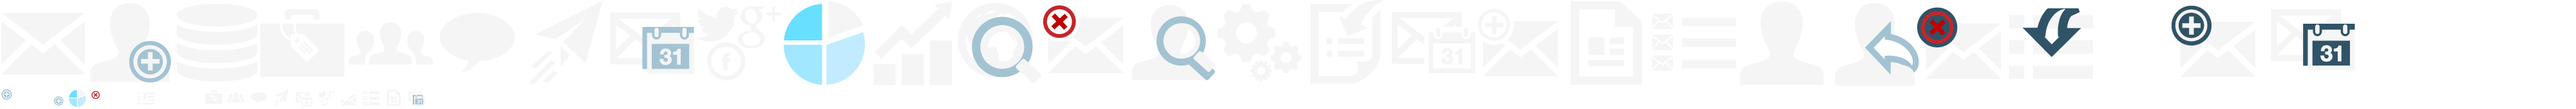
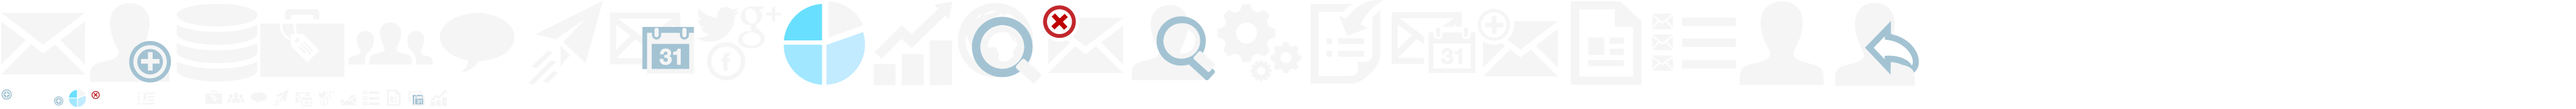
boton navegacion estadisticas mail

Changed region(s): [[0.7188, 0.0588, 0.8125, 0.5], [0.8438, 0.0588, 0.9375, 0.6176]]

diff --git a/public/b3/css/sm-email-theme.css b/public/b3/css/sm-email-theme.css
@@ -1,1 +1,1 @@
-@font-face{font-family:'journalregular';src:url('../fonts/journal-webfont-webfont.eot');src:url('../fonts/journal-webfont-webfont.eot?#iefix') format('embedded-opentype'),url('../fonts/journal-webfont-webfont.woff') format('woff'),url('../fonts/journal-webfont-webfont.ttf') format('truetype');font-weight:normal;font-style:normal}body{background-color:#f5f5f5}.space{margin:40px 0}.wrap{background-color:#e9eff2;padding:12px 0;margin-bottom:20px}.wrapper{padding:25px;margin-bottom:20px}h4.sectiontitle{background-color:#e9eff2;padding:10px;color:#20526e;margin-bottom:30px}.box-dashboard-summary{border-radius:6px;margin:0 0 30px 0;padding:20px 0;text-align:center;color:#f5f5f5}[class*="sm-icons-summary-"]{background:transparent url('../images/sm-icons.png') no-repeat 0 0;height:46px;width:46px}.sm-icons-summary-opens{background-position:0 0}.sm-icons-summary-clicks{background-position:-47px 0}.sm-icons-summary-unsubscribed{background-position:-94px 0}.sm-icons-summary-bounced{background-position:-141px 0}.sm-icons-summary-fb{background-position:-188px 0}.sm-icons-summary-tw{background-position:-235px 0}[class*="sm-icons-stats-"]{background:transparent url('../images/sm-icons.png') no-repeat 0 0;height:70px;width:70px}.sm-icons-stats-sends{background-position:0 -58px}.sm-icons-stats-opens{background-position:-71px -58px}.sm-icons-stats-clics{background-position:-142px -58px}.sm-icons-stats-unsubs{background-position:-213px -58px}.sm-icons-stats-bounced{background-position:-284px -58px}.sm-icons-stats-spam{background-position:-355px -58px}.sm-icons-stats-facebook{background-position:-426px -58px}.sm-icons-stats-tweet{background-position:-497px -58px}.sm-icons-stats-gplus{background-position:-568px -58px}.sm-icons-stats-linkedin{background-position:-639px -58px}.sends{color:#f5f5f5;margin-top:20px;text-align:center}.opens{color:#97c86b;margin-top:20px;text-align:center}.clics{color:#6e97ac;margin-top:20px;text-align:center}.bounced{color:#ef8807;margin-top:20px;text-align:center}.unsubs{color:#a1dcfb;margin-top:10px;text-align:center}.color-desusc{color:#a1dcfb}.spam{color:#bd1b06;margin-top:10px;text-align:center}.summary-opens{background:#97c86b}.number-stats-dashboard-summary{color:#f5f5f5;padding:20px 8px;text-align:center}@media screen and (min-width:1200px){.number-stats-dashboard-summary{font-size:48px}}@media screen and (max-width:1200px){.number-stats-dashboard-summary{font-size:36px}}@media screen and (max-width:1024px){.number-stats-dashboard-summary{font-size:36px}}@media screen and (max-width:800px){.number-stats-dashboard-summary{font-size:32px}}.summary-unsubscribed{background-color:#a1dcfb}.summary-clicks{background-color:#6e97ac}.summary-bounced{background-color:#ef8807}.summary-spam{background-color:#d9534f}.summary-box-social{background-color:#adadad;padding-bottom:0}.border-top{border-top:1px solid #f5f5f5}.social-sec-box{padding-bottom:5px;padding-top:5px;border-left:1px solid #f5f5f5}.social-sec-box:first-child{border-left:0}.summary-fb p{padding-right:10px;text-align:right;font-size:20px}.table-normal thead th{height:100px;vertical-align:bottom;text-align:center;font-weight:normal}.table-normal thead th.opens{background:transparent url('../images/icon-email-open-color.png') no-repeat center 12px;color:#97c86b}.table-normal thead th.clics{background:transparent url('../images/icon-clics-color.png') no-repeat center 12px;color:#6e97ac}.table-normal thead th.desusc{background:transparent url('../images/icon-desusc-color.png') no-repeat center 12px;color:#a1dcfb}.table-normal thead th.bounced{background:transparent url('../images/icon-bounced-color.png') no-repeat center 12px;color:#ef8807}.table-normal tbody td{text-align:center}.table-normal tbody td.left{text-align:left}.jqstooltip{-webkit-box-sizing:content-box;-moz-box-sizing:content-box;box-sizing:content-box}#sidebar-background-object{position:fixed;height:100%;top:0;background-color:#20526e}.sidebar{background-color:#20526e;height:100%;float:left;margin:0;padding:0;z-index:2}#main-navigation li{border-left:6px solid #f5f5f5;margin-top:0}#main-navigation li a{color:#e6ba7b;font-size:15px;padding:15px}#main-navigation li.active{background-color:#f5f5f5;border-left:6px solid #20526e;border-radius:0}#main-navigation li.active a{background-color:#f5f5f5;border-radius:0;color:#20526e}#main-navigation li:hover{background-color:#e9eff2;border-left:6px solid #e9eff2;border-radius:0}#main-navigation li:hover a{background-color:#e9eff2;border-radius:0;color:#20526e}.navbar-default{background-color:#20526e;border-radius:0;border-color:#20526e;margin-bottom:0}#top-nav li a{color:#f5f5f5}#top-nav li:hover a{color:#777}.sm-btn-blue{background-color:#a4c3d4}.sm-btn-blue:hover{background-color:#315467}.sm-btn-blue.active{background-color:#adadad}.to-do{text-align:center;display:block;border-radius:3px;padding:32px;background-color:#a4c3d4;width:190px;height:190px;margin-bottom:10px}.small-btn{width:42px;height:42px;margin:0;padding-top:3px;border-radius:2px}.small-btn a{display:inline-block}.sm-button-large-base,.sm-button-large-email,.sm-button-large-add-contacts,.sm-button-large-database,.sm-button-large-accounts,.sm-button-large-users,.sm-button-large-msj,.sm-button-large-send-process,.sm-button-large-program-envios,.sm-button-large-socialnet,.sm-button-large-contact-list,.sm-button-large-segment,.sm-button-large-bloq-list,.sm-button-large-contact-search,.sm-button-large-settings,.sm-button-large-import-list,.sm-button-large-admin-prog,.sm-button-large-email-new,.sm-button-large-plantillas,.sm-button-large-email-list{background:transparent url('../images/icon-buttons.png') no-repeat center center;height:134px;width:134px;display:inline-block}.sm-button-large-email{background-position:0 0}.sm-button-large-add-contacts{background-position:-135px 0}.sm-button-large-database{background-position:-270px 0}.sm-button-large-accounts{background-position:-405px 0}.sm-button-large-users{background-position:-540px 0}.sm-button-large-msj{background-position:-675px 0}.sm-button-large-send-process{background-position:-810px 0}.sm-button-large-program-envios{background-position:-2160px 0}.sm-button-large-socialnet{background-position:-1080px 0}.sm-button-large-contact-list{background-position:-2700px 0}.sm-button-large-segment{background-position:-1215px 0}.sm-button-large-bloq-list{background-position:-1620px 0}.sm-button-large-contact-search{background-position:-1755px 0}.sm-button-large-settings{background-position:-1890px 0}.sm-button-large-import-list{background-position:-2025px 0}.sm-button-large-admin-prog{background-position:-2160px 0}.sm-button-large-email-new{background-position:-2295px 0}.sm-button-large-plantillas{background-position:-2430px 0}.sm-button-large-email-list{background-position:-2565px 0}.btn-actn{color:#123377;font-size:18px;text-align:center}.w-190{width:190px}.center{text-align:center}.mtop-5{margin-top:5px}.sm-button-small-base,.sm-button-small-email,.sm-button-small-contact-list,.sm-button-small-database,.sm-button-small-bloq-list,.sm-button-small-settings,.sm-button-small-import-contacts,.sm-button-small-import-list,.sm-button-small-segment,.sm-button-small-contact-search,.sm-button-small-account,.sm-button-small-user,.sm-button-small-msj,.sm-button-small-send,.sm-button-small-scheduledmail,.sm-button-small-social,.sm-button-small-email-new,.sm-button-small-email-list,.sm-button-small-template,.sm-button-small-schedule{background:transparent url('../images/icon-buttons.png') no-repeat center center;height:34px;width:34px;display:inline-block}.sm-button-small-email{background-position:0 -135px}.sm-button-small-contact-list{background-position:-35px -135px}.sm-button-small-database{background-position:-280px -135px}.sm-button-small-bloq-list{background-position:-140px -135px}.sm-button-small-settings{background-position:-175px -135px}.sm-button-small-import-contacts{background-position:-210px -129}.sm-button-small-import-list{background-position:-210px -135px}.sm-button-small-segment{background-position:-105px -135px}.sm-button-small-contact-search{background-position:-70px -135px}.sm-button-small-account{background-position:-315px -135px}.sm-button-small-user{background-position:-350px -135px}.sm-button-small-msj{background-position:-385px -135px}.sm-button-small-send{background-position:-420px -135px}.sm-button-small-scheduledmail{background-position:-455px -135px}.sm-button-small-social{background-position:-490px -135px}.sm-button-small-email-new{background-position:-525px -135px}.sm-button-small-email-list{background-position:-560px -135px}.sm-button-small-template{background-position:-595px -135px}.sm-button-small-schedule{background-position:-455px -135px}h4.numbers-contacts{margin-bottom:0}.numbers-contacts li{margin-bottom:0;text-align:center;padding:0 15px}.big-number{font-size:30px}.blue{color:#6e97ac}.sad-blue{color:#b3e3e4}.gray{color:#9d9d9d}.green{color:#97c86b}.orange{color:#ef8807}.red{color:#bd1b06}.btn{margin-bottom:10px}.input-group-btn .btn,#modal-simple .btn{margin-bottom:0}.input-group-sm>.input-group-addon{width:13px}.btn-default{background-color:#ccc;color:#428bca;border:none}.btn-default:hover{text-decoration:underline;color:#666;transition:background-color .5s ease;text-decoration:none;background-color:#b3b3b3}.extra-padding{padding-right:25px;padding-left:25px}.btn-danger{border:none}.btn-delete:hover{background-color:#ac1905;color:#f5f5f5;text-decoration:none}.btn-guardar{background-color:#5cb85c;color:#f5f5f5;text-decoration:none}.btn-guardar:hover{transition:background-color .5s ease;background-color:#5eab07;text-decoration:none}.btn-add:hover{transition:background-color .5s ease;background-color:#58abca;color:#eee;text-decoration:none}.no-bg{background-color:transparent}.no-bg:hover{background-color:transparent;border:none;box-shadow:none}.btn-group.open .dropdown-toggle{box-shadow:none}table.table-contacts tbody tr td{vertical-align:middle}table.mail-list tbody tr td{padding:25px}.inactive{background-color:#808080;width:15px}.unsubscribed{background-color:#333;width:15px}.frame-bg-pd{background-color:#eee;padding-top:9px;padding-bottom:0;margin-bottom:15px}.alert-success span{font-size:40px}.form-actions{text-align:center;padding:25px 0}.border{border:1px solid #ddd;border-radius:5px}span.required{color:#d9534f;padding-right:4px}.estado-contact .inactive{background-color:#b3e3e4;width:15px}.estado-contact .unsubscribed{background-color:#9d9d9d;width:15px}.bs-callout-primary{display:block;margin:20px 0;padding:15px 30px 15px 15px;border-left:5px solid #428bca;background-color:#f5f9fc}.bs-callout-primary h1,.bs-callout-primary h2,.bs-callout-primary h3,.bs-callout-primary h4,.bs-callout-primary h5,.bs-callout-primary h6{margin-top:0;color:#428bca}.bs-callout-primary p:last-child{margin-bottom:0}.bs-callout-primary code,.bs-callout-primary .highlight{background-color:#fff}.bs-callout-danger{display:block;margin:20px 0;padding:15px 30px 15px 15px;border-left:5px solid #d9534f;background-color:#f9e2e2}.bs-callout-danger h1,.bs-callout-danger h2,.bs-callout-danger h3,.bs-callout-danger h4,.bs-callout-danger h5,.bs-callout-danger h6{margin-top:0;color:#d9534f}.bs-callout-danger p:last-child{margin-bottom:0}.bs-callout-danger code,.bs-callout-danger .highlight{background-color:#fff}.bs-callout-warning{display:block;margin:20px 0;padding:15px 30px 15px 15px;border-left:5px solid #f0ad4e;background-color:#fceedb}.bs-callout-warning h1,.bs-callout-warning h2,.bs-callout-warning h3,.bs-callout-warning h4,.bs-callout-warning h5,.bs-callout-warning h6{margin-top:0;color:#f0ad4e}.bs-callout-warning p:last-child{margin-bottom:0}.bs-callout-warning code,.bs-callout-warning .highlight{background-color:#fff}.bs-callout-info{display:block;margin:20px 0;padding:15px 30px 15px 15px;border-left:5px solid #5bc0de;background-color:#f0f9fc}.bs-callout-info h1,.bs-callout-info h2,.bs-callout-info h3,.bs-callout-info h4,.bs-callout-info h5,.bs-callout-info h6{margin-top:0;color:#5bc0de}.bs-callout-info p:last-child{margin-bottom:0}.bs-callout-info code,.bs-callout-info .highlight{background-color:#fff}.bs-callout-success{display:block;margin:20px 0;padding:15px 30px 15px 15px;border-left:5px solid #5cb85c;background-color:#d8eed8}.bs-callout-success h1,.bs-callout-success h2,.bs-callout-success h3,.bs-callout-success h4,.bs-callout-success h5,.bs-callout-success h6{margin-top:0;color:#5cb85c}.bs-callout-success p:last-child{margin-bottom:0}.bs-callout-success code,.bs-callout-success .highlight{background-color:#fff}.table-striped tbody tr.spreadout>td{background-color:#f0eedf}.table-striped tbody tr.spreadout:nth-child(odd)>td{background-color:#f0eedf}.report h4{color:#20526e}.mini-icon{color:#20526e;font-size:20px;padding-top:6px}table.hight-line>tbody>tr>th{line-height:2.2}table.middle>tbody>tr>th>td{vertical-align:middle}.right{text-align:right}.padding-top{padding-top:15px}.ptop-7{padding-top:7px}.ptop-3{padding-top:3px}#colorchart td{width:25px !important;height:25px !important;cursor:pointer;border:2px #d3d3d3 solid}#colorchart{border-collapse:separate;border:4px #808080 solid}#color.text-for-db-color{display:none !important}#colorchart td:hover{opacity:.5}.color-selected{border:2px #00f solid !important}.list-inline>li.card{padding:5px 20px;border-radius:5px;color:#f5f5f5;text-align:center;margin-bottom:5px}.list-inline>li.card span{font-size:30px}.card{margin:0 10px}.cont{background-color:#97c86b}.list{background-color:#ff90a8}.seg{background-color:#6e97ac}.bs-ember-href li a{cursor:pointer}.pointer{cursor:pointer}.border{border:1px solid #c3c3c3}.sm-striped-bg{width:12px;background-size:30px 30px;background-image:linear-gradient(45deg, rgba(0,0,0,0.1) 25%, transparent 25%, transparent 50%, rgba(0,0,0,0.1) 50%, rgba(0,0,0,0.1) 75%, transparent 75%, transparent)}.sm-striped-bg-sm{width:4px;background-size:30px 30px;background-image:linear-gradient(45deg, rgba(0,0,0,0.1) 25%, transparent 25%, transparent 50%, rgba(0,0,0,0.1) 50%, rgba(0,0,0,0.1) 75%, transparent 75%, transparent)}.nav-tabs>li.active>a{background-color:#f5f5f5}.nav-tabs>li.active>a,.nav-tabs>li.active>a:hover{background-color:#f5f5f5}.border-left{border-left:1px solid #c9c9c9}.preview-mail{margin:0 15px 0 0}.item-thumb{margin-bottom:20px}.paneltitle{color:#f0ad4e;border-bottom:2px solid #f0ad4e}.mail-wrapper{background-color:#fff;border:15px solid transparent;padding:25px}.border-mail{-webkit-border-image:url('../images/bg-border-mail.png') 20 20 round;-o-border-image:url('../images/bg-border-mail.png') 20 20 round;border-image:url('../images/bg-border-mail.png') 20 20 round}.thumn-hight{height:414px}.bg-wrap-calendar{background:transparent url("../images/bg-calendar-1.png") no-repeat 0 0;box-shadow:19px 19px 22px -12px #adadad;margin-top:0;width:175px;height:186px}.date{text-align:center;padding-top:65px}.day-send{color:#20526e;font-size:60px;margin:0}.month-send{font-size:15px;margin:0}.year-send{font-size:15px;margin:0}.time-send{color:#ac1905;font-size:60px;margin:0}.bg-wrap-time{box-shadow:10px 10px 22px #adadad;background:-webkit-linear-gradient(left top, #3a7ba0, #20526e);background:-o-linear-gradient(bottom right, #3a7ba0, #20526e);background:-moz-linear-gradient(bottom right, #3a7ba0, #20526e);background:linear-gradient(to bottom right, #3a7ba0, #20526e);margin-top:60px;text-align:center;padding:0 15px;width:200px}.time-send{color:#fff}.width-fix{width:100%}.anchor{text-decoration:none;cursor:pointer}.anchor:hover{text-decoration:none;cursor:pointer}.enlace{text-decoration:underline;color:#00f}.oculto{display:none}.mleft-15{margin-left:15px}.ptop-80{padding-top:80px}.bg-thumb{background:transparent url("../images/mail-bg-thumbnail.jpg") no-repeat 0 0;padding-top:28px;padding-left:48px;height:240px}.window{overflow:hidden;height:178px;width:200px}.stretch{width:100%}.totalstats{border:8px solid #636363;border-radius:135px;background-color:#363636;float:left;margin:15px;position:relative}.little-number{font-size:20px}.mbottom-0{margin-bottom:0}.wrap-other-stats{border:2px dashed #636363;border-radius:135px;float:left;margin:12px;padding-top:10px;position:relative}.social{border-radius:25px;color:#f5f5f5;float:left;text-align:center;margin:15px;position:relative}.facebook{background-color:#3c5b9a}.twitter{background-color:#759ec7}.google{background-color:#dd4b39}.linkedin{background-color:#007bb6}.stats{color:#636363;padding:20px 0}.pagination>li>span,.pagination>li>a{background-color:#e7f3f7;border:none}.pagination>li>a:hover{background-color:#f5f5f5}.pagination>.disabled>a,.pagination>.disabled>a:hover,.pagination>.disabled>span{background-color:#e7f3f7}@media screen and (min-width:1200px){.totalstats{height:270px;width:270px}.percent{font-size:70px}.number{font-size:22px}.number-send{font-size:50px}.wrap-other-stats{width:270px;height:270px}.social{height:270px;width:270px}.ptop{padding-top:30px}}@media screen and (max-width:1200px){.totalstats{height:200px;width:200px}.percent{font-size:30px}.number{font-size:18px}.number-send{font-size:30px}.wrap-other-stats{width:200px;height:200px}.social{height:200px;width:200px}.ptop{padding-top:10px}.opens-social p,.clics-social p{margin-bottom:0}}@media screen and (max-width:800px){.totalstats{height:165px;width:165px}[class*="sm-icons-stats-"]{background:transparent url('../images/sm-icons.png') no-repeat 0 0;height:35px;width:35px}.sm-icons-stats-sends{background-position:0 -128px}.sm-icons-stats-opens{background-position:-36px -128px}.sm-icons-stats-clics{background-position:-72px -128px}.sm-icons-stats-bounced{background-position:-144px -128px}.sm-icons-stats-unsubs{background-position:-108px -128px}.sm-icons-stats-spam{background-position:-180px -128px}.wrap-other-stats{width:100px;height:100px}.little-number{font-size:15px;padding-left:8px}.wrap-other-stats{width:165px;height:165px}.social{height:165px;width:165px}.sm-icons-stats-facebook{background-position:-216px -128px}.sm-icons-stats-tweet{background-position:-252px -128px}.sm-icons-stats-gplus{background-position:-288px -128px}.sm-icons-stats-linkedin{background-position:-324px -128px}}@media screen and (max-width:640px){.totalstats{height:120px;width:120px}[class*="sm-icons-stats-"]{background:transparent url('../images/sm-icons.png') no-repeat 0 0;height:18px;width:18px}.sm-icons-stats-sends{background-position:0 -174px}.sm-icons-stats-opens{background-position:-19px -174px}.sm-icons-stats-clics{background-position:-38px -174px}.sm-icons-stats-bounced{background-position:-76px -174px}.sm-icons-stats-unsubs{background-position:-57px -174px}.sm-icons-stats-spam{background-position:-95px -174px}.sends,.opens,.clics,.bounced,.unsubs,.spam{margin-top:10px}.number{font-size:18px}.percent{font-size:15px}.little-number{font-size:15px;padding-left:8px}.ptop-40{padding-top:40px}.wrap-other-stats{width:120px;height:120px}.social{height:auto;padding-bottom:20px;width:120px}.sm-icons-stats-facebook{background-position:-114px -174px}.sm-icons-stats-tweet{background-position:-133px -174px}.sm-icons-stats-gplus{background-position:-152px -174px}.sm-icons-stats-linkedin{background-position:-171px -174px}}.mail-preview{display:none}.mtop-neg{margin-top:-18px}.hand-writer-message{font-family:journalregular;font-size:45px;color:#bd1b06;line-height:1}.report-import span{font-size:25px}.red{color:#d9534f}.green{color:#5cb85c}.blue{color:#557595}
+@font-face{font-family:'journalregular';src:url('../fonts/journal-webfont-webfont.eot');src:url('../fonts/journal-webfont-webfont.eot?#iefix') format('embedded-opentype'),url('../fonts/journal-webfont-webfont.woff') format('woff'),url('../fonts/journal-webfont-webfont.ttf') format('truetype');font-weight:normal;font-style:normal}body{background-color:#f5f5f5}.space{margin:40px 0}.wrap{background-color:#e9eff2;padding:12px 0;margin-bottom:20px}.wrapper{padding:25px;margin-bottom:20px}h4.sectiontitle{background-color:#e9eff2;padding:10px;color:#20526e;margin-bottom:30px}.box-dashboard-summary{border-radius:6px;margin:0 0 30px 0;padding:20px 0;text-align:center;color:#f5f5f5}[class*="sm-icons-summary-"]{background:transparent url('../images/sm-icons.png') no-repeat 0 0;height:46px;width:46px}.sm-icons-summary-opens{background-position:0 0}.sm-icons-summary-clicks{background-position:-47px 0}.sm-icons-summary-unsubscribed{background-position:-94px 0}.sm-icons-summary-bounced{background-position:-141px 0}.sm-icons-summary-fb{background-position:-188px 0}.sm-icons-summary-tw{background-position:-235px 0}[class*="sm-icons-stats-"]{background:transparent url('../images/sm-icons.png') no-repeat 0 0;height:70px;width:70px}.sm-icons-stats-sends{background-position:0 -58px}.sm-icons-stats-opens{background-position:-71px -58px}.sm-icons-stats-clics{background-position:-142px -58px}.sm-icons-stats-unsubs{background-position:-213px -58px}.sm-icons-stats-bounced{background-position:-284px -58px}.sm-icons-stats-spam{background-position:-355px -58px}.sm-icons-stats-facebook{background-position:-426px -58px}.sm-icons-stats-tweet{background-position:-497px -58px}.sm-icons-stats-gplus{background-position:-568px -58px}.sm-icons-stats-linkedin{background-position:-639px -58px}.sends{color:#f5f5f5;margin-top:20px;text-align:center}.opens{color:#97c86b;margin-top:20px;text-align:center}.clics{color:#6e97ac;margin-top:20px;text-align:center}.bounced{color:#ef8807;margin-top:20px;text-align:center}.unsubs{color:#a1dcfb;margin-top:10px;text-align:center}.color-desusc{color:#a1dcfb}.spam{color:#bd1b06;margin-top:10px;text-align:center}.summary-opens{background:#97c86b}.number-stats-dashboard-summary{color:#f5f5f5;padding:20px 8px;text-align:center}@media screen and (min-width:1200px){.number-stats-dashboard-summary{font-size:48px}}@media screen and (max-width:1200px){.number-stats-dashboard-summary{font-size:36px}}@media screen and (max-width:1024px){.number-stats-dashboard-summary{font-size:36px}}@media screen and (max-width:800px){.number-stats-dashboard-summary{font-size:32px}}.summary-unsubscribed{background-color:#a1dcfb}.summary-clicks{background-color:#6e97ac}.summary-bounced{background-color:#ef8807}.summary-spam{background-color:#d9534f}.summary-box-social{background-color:#adadad;padding-bottom:0}.border-top{border-top:1px solid #f5f5f5}.social-sec-box{padding-bottom:5px;padding-top:5px;border-left:1px solid #f5f5f5}.social-sec-box:first-child{border-left:0}.summary-fb p{padding-right:10px;text-align:right;font-size:20px}.table-normal thead th{height:100px;vertical-align:bottom;text-align:center;font-weight:normal}.table-normal thead th.opens{background:transparent url('../images/icon-email-open-color.png') no-repeat center 12px;color:#97c86b}.table-normal thead th.clics{background:transparent url('../images/icon-clics-color.png') no-repeat center 12px;color:#6e97ac}.table-normal thead th.desusc{background:transparent url('../images/icon-desusc-color.png') no-repeat center 12px;color:#a1dcfb}.table-normal thead th.bounced{background:transparent url('../images/icon-bounced-color.png') no-repeat center 12px;color:#ef8807}.table-normal tbody td{text-align:center}.table-normal tbody td.left{text-align:left}.jqstooltip{-webkit-box-sizing:content-box;-moz-box-sizing:content-box;box-sizing:content-box}#sidebar-background-object{position:fixed;height:100%;top:0;background-color:#20526e}.sidebar{background-color:#20526e;height:100%;float:left;margin:0;padding:0;z-index:2}#main-navigation li{border-left:6px solid #f5f5f5;margin-top:0}#main-navigation li a{color:#e6ba7b;font-size:15px;padding:15px}#main-navigation li.active{background-color:#f5f5f5;border-left:6px solid #20526e;border-radius:0}#main-navigation li.active a{background-color:#f5f5f5;border-radius:0;color:#20526e}#main-navigation li:hover{background-color:#e9eff2;border-left:6px solid #e9eff2;border-radius:0}#main-navigation li:hover a{background-color:#e9eff2;border-radius:0;color:#20526e}.navbar-default{background-color:#20526e;border-radius:0;border-color:#20526e;margin-bottom:0}#top-nav li a{color:#f5f5f5}#top-nav li:hover a{color:#777}.sm-btn-blue{background-color:#a4c3d4}.sm-btn-blue:hover{background-color:#315467}.sm-btn-blue.active{background-color:#adadad}.to-do{text-align:center;display:block;border-radius:3px;padding:32px;background-color:#a4c3d4;width:190px;height:190px;margin-bottom:10px}.small-btn{width:42px;height:42px;margin:0;padding-top:3px;border-radius:2px}.small-btn a{display:inline-block}.sm-button-large-base,.sm-button-large-email,.sm-button-large-add-contacts,.sm-button-large-database,.sm-button-large-accounts,.sm-button-large-users,.sm-button-large-msj,.sm-button-large-send-process,.sm-button-large-program-envios,.sm-button-large-socialnet,.sm-button-large-contact-list,.sm-button-large-segment,.sm-button-large-bloq-list,.sm-button-large-contact-search,.sm-button-large-settings,.sm-button-large-import-list,.sm-button-large-admin-prog,.sm-button-large-email-new,.sm-button-large-plantillas,.sm-button-large-email-list{background:transparent url('../images/icon-buttons.png') no-repeat center center;height:134px;width:134px;display:inline-block}.sm-button-large-email{background-position:0 0}.sm-button-large-add-contacts{background-position:-135px 0}.sm-button-large-database{background-position:-270px 0}.sm-button-large-accounts{background-position:-405px 0}.sm-button-large-users{background-position:-540px 0}.sm-button-large-msj{background-position:-675px 0}.sm-button-large-send-process{background-position:-810px 0}.sm-button-large-program-envios{background-position:-2160px 0}.sm-button-large-socialnet{background-position:-1080px 0}.sm-button-large-contact-list{background-position:-2700px 0}.sm-button-large-segment{background-position:-1215px 0}.sm-button-large-bloq-list{background-position:-1620px 0}.sm-button-large-contact-search{background-position:-1755px 0}.sm-button-large-settings{background-position:-1890px 0}.sm-button-large-import-list{background-position:-2025px 0}.sm-button-large-admin-prog{background-position:-2160px 0}.sm-button-large-email-new{background-position:-2295px 0}.sm-button-large-plantillas{background-position:-2430px 0}.sm-button-large-email-list{background-position:-2565px 0}.btn-actn{color:#123377;font-size:18px;text-align:center}.w-190{width:190px}.center{text-align:center}.mtop-5{margin-top:5px}.sm-button-small-base,.sm-button-small-email,.sm-button-small-contact-list,.sm-button-small-database,.sm-button-small-bloq-list,.sm-button-small-settings,.sm-button-small-import-contacts,.sm-button-small-import-list,.sm-button-small-segment,.sm-button-small-contact-search,.sm-button-small-account,.sm-button-small-user,.sm-button-small-msj,.sm-button-small-send,.sm-button-small-scheduledmail,.sm-button-small-social,.sm-button-small-email-new,.sm-button-small-email-list,.sm-button-small-template,.sm-button-small-schedule,.sm-button-small-stats{background:transparent url('../images/icon-buttons.png') no-repeat center center;height:34px;width:34px;display:inline-block}.sm-button-small-email{background-position:0 -135px}.sm-button-small-contact-list{background-position:-35px -135px}.sm-button-small-database{background-position:-280px -135px}.sm-button-small-bloq-list{background-position:-140px -135px}.sm-button-small-settings{background-position:-175px -135px}.sm-button-small-import-contacts{background-position:-210px -129}.sm-button-small-import-list{background-position:-210px -135px}.sm-button-small-segment{background-position:-105px -135px}.sm-button-small-contact-search{background-position:-70px -135px}.sm-button-small-account{background-position:-315px -135px}.sm-button-small-user{background-position:-350px -135px}.sm-button-small-msj{background-position:-385px -135px}.sm-button-small-send{background-position:-420px -135px}.sm-button-small-scheduledmail{background-position:-455px -135px}.sm-button-small-social{background-position:-490px -135px}.sm-button-small-email-new{background-position:-525px -135px}.sm-button-small-email-list{background-position:-560px -135px}.sm-button-small-template{background-position:-595px -135px}.sm-button-small-schedule{background-position:-455px -135px}.sm-button-small-stats{background-position:-665px -135px}h4.numbers-contacts{margin-bottom:0}.numbers-contacts li{margin-bottom:0;text-align:center;padding:0 15px}.big-number{font-size:30px}.blue{color:#6e97ac}.sad-blue{color:#b3e3e4}.gray{color:#9d9d9d}.green{color:#97c86b}.orange{color:#ef8807}.red{color:#bd1b06}.btn{margin-bottom:10px}.input-group-btn .btn,#modal-simple .btn{margin-bottom:0}.input-group-sm>.input-group-addon{width:13px}.btn-default{background-color:#ccc;color:#428bca;border:none}.btn-default:hover{text-decoration:underline;color:#666;transition:background-color .5s ease;text-decoration:none;background-color:#b3b3b3}.extra-padding{padding-right:25px;padding-left:25px}.btn-danger{border:none}.btn-delete:hover{background-color:#ac1905;color:#f5f5f5;text-decoration:none}.btn-guardar{background-color:#5cb85c;color:#f5f5f5;text-decoration:none}.btn-guardar:hover{transition:background-color .5s ease;background-color:#5eab07;text-decoration:none}.btn-add:hover{transition:background-color .5s ease;background-color:#58abca;color:#eee;text-decoration:none}.no-bg{background-color:transparent}.no-bg:hover{background-color:transparent;border:none;box-shadow:none}.btn-group.open .dropdown-toggle{box-shadow:none}table.table-contacts tbody tr td{vertical-align:middle}table.mail-list tbody tr td{padding:25px}.inactive{background-color:#808080;width:15px}.unsubscribed{background-color:#333;width:15px}.frame-bg-pd{background-color:#eee;padding-top:9px;padding-bottom:0;margin-bottom:15px}.alert-success span{font-size:40px}.form-actions{text-align:center;padding:25px 0}.border{border:1px solid #ddd;border-radius:5px}span.required{color:#d9534f;padding-right:4px}.estado-contact .inactive{background-color:#b3e3e4;width:15px}.estado-contact .unsubscribed{background-color:#9d9d9d;width:15px}.bs-callout-primary{display:block;margin:20px 0;padding:15px 30px 15px 15px;border-left:5px solid #428bca;background-color:#f5f9fc}.bs-callout-primary h1,.bs-callout-primary h2,.bs-callout-primary h3,.bs-callout-primary h4,.bs-callout-primary h5,.bs-callout-primary h6{margin-top:0;color:#428bca}.bs-callout-primary p:last-child{margin-bottom:0}.bs-callout-primary code,.bs-callout-primary .highlight{background-color:#fff}.bs-callout-danger{display:block;margin:20px 0;padding:15px 30px 15px 15px;border-left:5px solid #d9534f;background-color:#f9e2e2}.bs-callout-danger h1,.bs-callout-danger h2,.bs-callout-danger h3,.bs-callout-danger h4,.bs-callout-danger h5,.bs-callout-danger h6{margin-top:0;color:#d9534f}.bs-callout-danger p:last-child{margin-bottom:0}.bs-callout-danger code,.bs-callout-danger .highlight{background-color:#fff}.bs-callout-warning{display:block;margin:20px 0;padding:15px 30px 15px 15px;border-left:5px solid #f0ad4e;background-color:#fceedb}.bs-callout-warning h1,.bs-callout-warning h2,.bs-callout-warning h3,.bs-callout-warning h4,.bs-callout-warning h5,.bs-callout-warning h6{margin-top:0;color:#f0ad4e}.bs-callout-warning p:last-child{margin-bottom:0}.bs-callout-warning code,.bs-callout-warning .highlight{background-color:#fff}.bs-callout-info{display:block;margin:20px 0;padding:15px 30px 15px 15px;border-left:5px solid #5bc0de;background-color:#f0f9fc}.bs-callout-info h1,.bs-callout-info h2,.bs-callout-info h3,.bs-callout-info h4,.bs-callout-info h5,.bs-callout-info h6{margin-top:0;color:#5bc0de}.bs-callout-info p:last-child{margin-bottom:0}.bs-callout-info code,.bs-callout-info .highlight{background-color:#fff}.bs-callout-success{display:block;margin:20px 0;padding:15px 30px 15px 15px;border-left:5px solid #5cb85c;background-color:#d8eed8}.bs-callout-success h1,.bs-callout-success h2,.bs-callout-success h3,.bs-callout-success h4,.bs-callout-success h5,.bs-callout-success h6{margin-top:0;color:#5cb85c}.bs-callout-success p:last-child{margin-bottom:0}.bs-callout-success code,.bs-callout-success .highlight{background-color:#fff}.table-striped tbody tr.spreadout>td{background-color:#f0eedf}.table-striped tbody tr.spreadout:nth-child(odd)>td{background-color:#f0eedf}.report h4{color:#20526e}.mini-icon{color:#20526e;font-size:20px;padding-top:6px}table.hight-line>tbody>tr>th{line-height:2.2}table.middle>tbody>tr>th>td{vertical-align:middle}.right{text-align:right}.padding-top{padding-top:15px}.ptop-7{padding-top:7px}.ptop-3{padding-top:3px}#colorchart td{width:25px !important;height:25px !important;cursor:pointer;border:2px #d3d3d3 solid}#colorchart{border-collapse:separate;border:4px #808080 solid}#color.text-for-db-color{display:none !important}#colorchart td:hover{opacity:.5}.color-selected{border:2px #00f solid !important}.list-inline>li.card{padding:5px 20px;border-radius:5px;color:#f5f5f5;text-align:center;margin-bottom:5px}.list-inline>li.card span{font-size:30px}.card{margin:0 10px}.cont{background-color:#97c86b}.list{background-color:#ff90a8}.seg{background-color:#6e97ac}.bs-ember-href li a{cursor:pointer}.pointer{cursor:pointer}.border{border:1px solid #c3c3c3}.sm-striped-bg{width:12px;background-size:30px 30px;background-image:linear-gradient(45deg, rgba(0,0,0,0.1) 25%, transparent 25%, transparent 50%, rgba(0,0,0,0.1) 50%, rgba(0,0,0,0.1) 75%, transparent 75%, transparent)}.sm-striped-bg-sm{width:4px;background-size:30px 30px;background-image:linear-gradient(45deg, rgba(0,0,0,0.1) 25%, transparent 25%, transparent 50%, rgba(0,0,0,0.1) 50%, rgba(0,0,0,0.1) 75%, transparent 75%, transparent)}.nav-tabs>li.active>a{background-color:#f5f5f5}.nav-tabs>li.active>a,.nav-tabs>li.active>a:hover{background-color:#f5f5f5}.border-left{border-left:1px solid #c9c9c9}.preview-mail{margin:0 15px 0 0}.item-thumb{margin-bottom:20px}.paneltitle{color:#f0ad4e;border-bottom:2px solid #f0ad4e}.mail-wrapper{background-color:#fff;border:15px solid transparent;padding:25px}.border-mail{-webkit-border-image:url('../images/bg-border-mail.png') 20 20 round;-o-border-image:url('../images/bg-border-mail.png') 20 20 round;border-image:url('../images/bg-border-mail.png') 20 20 round}.thumn-hight{height:414px}.bg-wrap-calendar{background:transparent url("../images/bg-calendar-1.png") no-repeat 0 0;box-shadow:19px 19px 22px -12px #adadad;margin-top:0;width:175px;height:186px}.date{text-align:center;padding-top:65px}.day-send{color:#20526e;font-size:60px;margin:0}.month-send{font-size:15px;margin:0}.year-send{font-size:15px;margin:0}.time-send{color:#ac1905;font-size:60px;margin:0}.bg-wrap-time{box-shadow:10px 10px 22px #adadad;background:-webkit-linear-gradient(left top, #3a7ba0, #20526e);background:-o-linear-gradient(bottom right, #3a7ba0, #20526e);background:-moz-linear-gradient(bottom right, #3a7ba0, #20526e);background:linear-gradient(to bottom right, #3a7ba0, #20526e);margin-top:60px;text-align:center;padding:0 15px;width:200px}.time-send{color:#fff}.width-fix{width:100%}.anchor{text-decoration:none;cursor:pointer}.anchor:hover{text-decoration:none;cursor:pointer}.enlace{text-decoration:underline;color:#00f}.oculto{display:none}.mleft-15{margin-left:15px}.ptop-80{padding-top:80px}.bg-thumb{background:transparent url("../images/mail-bg-thumbnail.jpg") no-repeat 0 0;padding-top:28px;padding-left:48px;height:240px}.window{overflow:hidden;height:178px;width:200px}.stretch{width:100%}.totalstats{border:8px solid #636363;border-radius:135px;background-color:#363636;float:left;margin:15px;position:relative}.little-number{font-size:20px}.mbottom-0{margin-bottom:0}.wrap-other-stats{border:2px dashed #636363;border-radius:135px;float:left;margin:12px;padding-top:10px;position:relative}.social{border-radius:25px;color:#f5f5f5;float:left;text-align:center;margin:15px;position:relative}.facebook{background-color:#3c5b9a}.twitter{background-color:#759ec7}.google{background-color:#dd4b39}.linkedin{background-color:#007bb6}.stats{color:#636363;padding:20px 0}.pagination>li>span,.pagination>li>a{background-color:#e7f3f7;border:none}.pagination>li>a:hover{background-color:#f5f5f5}.pagination>.disabled>a,.pagination>.disabled>a:hover,.pagination>.disabled>span{background-color:#e7f3f7}@media screen and (min-width:1200px){.totalstats{height:270px;width:270px}.percent{font-size:70px}.number{font-size:22px}.number-send{font-size:50px}.wrap-other-stats{width:270px;height:270px}.social{height:270px;width:270px}.ptop{padding-top:30px}}@media screen and (max-width:1200px){.totalstats{height:200px;width:200px}.percent{font-size:30px}.number{font-size:18px}.number-send{font-size:30px}.wrap-other-stats{width:200px;height:200px}.social{height:200px;width:200px}.ptop{padding-top:10px}.opens-social p,.clics-social p{margin-bottom:0}}@media screen and (max-width:800px){.totalstats{height:165px;width:165px}[class*="sm-icons-stats-"]{background:transparent url('../images/sm-icons.png') no-repeat 0 0;height:35px;width:35px}.sm-icons-stats-sends{background-position:0 -128px}.sm-icons-stats-opens{background-position:-36px -128px}.sm-icons-stats-clics{background-position:-72px -128px}.sm-icons-stats-bounced{background-position:-144px -128px}.sm-icons-stats-unsubs{background-position:-108px -128px}.sm-icons-stats-spam{background-position:-180px -128px}.wrap-other-stats{width:100px;height:100px}.little-number{font-size:15px;padding-left:8px}.wrap-other-stats{width:165px;height:165px}.social{height:165px;width:165px}.sm-icons-stats-facebook{background-position:-216px -128px}.sm-icons-stats-tweet{background-position:-252px -128px}.sm-icons-stats-gplus{background-position:-288px -128px}.sm-icons-stats-linkedin{background-position:-324px -128px}}@media screen and (max-width:640px){.totalstats{height:120px;width:120px}[class*="sm-icons-stats-"]{background:transparent url('../images/sm-icons.png') no-repeat 0 0;height:18px;width:18px}.sm-icons-stats-sends{background-position:0 -174px}.sm-icons-stats-opens{background-position:-19px -174px}.sm-icons-stats-clics{background-position:-38px -174px}.sm-icons-stats-bounced{background-position:-76px -174px}.sm-icons-stats-unsubs{background-position:-57px -174px}.sm-icons-stats-spam{background-position:-95px -174px}.sends,.opens,.clics,.bounced,.unsubs,.spam{margin-top:10px}.number{font-size:18px}.percent{font-size:15px}.little-number{font-size:15px;padding-left:8px}.ptop-40{padding-top:40px}.wrap-other-stats{width:120px;height:120px}.social{height:auto;padding-bottom:20px;width:120px}.sm-icons-stats-facebook{background-position:-114px -174px}.sm-icons-stats-tweet{background-position:-133px -174px}.sm-icons-stats-gplus{background-position:-152px -174px}.sm-icons-stats-linkedin{background-position:-171px -174px}}.mail-preview{display:none}.mtop-neg{margin-top:-18px}.hand-writer-message{font-family:journalregular;font-size:45px;color:#bd1b06;line-height:1}.report-import span{font-size:25px}.red{color:#d9534f}.green{color:#5cb85c}.blue{color:#557595}

diff --git a/public/b3/css/sm-email-theme.less b/public/b3/css/sm-email-theme.less
@@ -602,6 +602,10 @@ h4.sectiontitle {
 	.pos-icons(13, @shortcuts-small-icons-width);
 	background-position: @position @sm-icon-pos-y;
 }
+.sm-button-small-stats:extend(.sm-button-small-base) {
+	.pos-icons(19, @shortcuts-small-icons-width);
+	background-position: @position @sm-icon-pos-y;
+}
 /* Fin estilos para la navegación interna con iconos pequeños */
 
 /* Estilos para la info sobre contactos */
